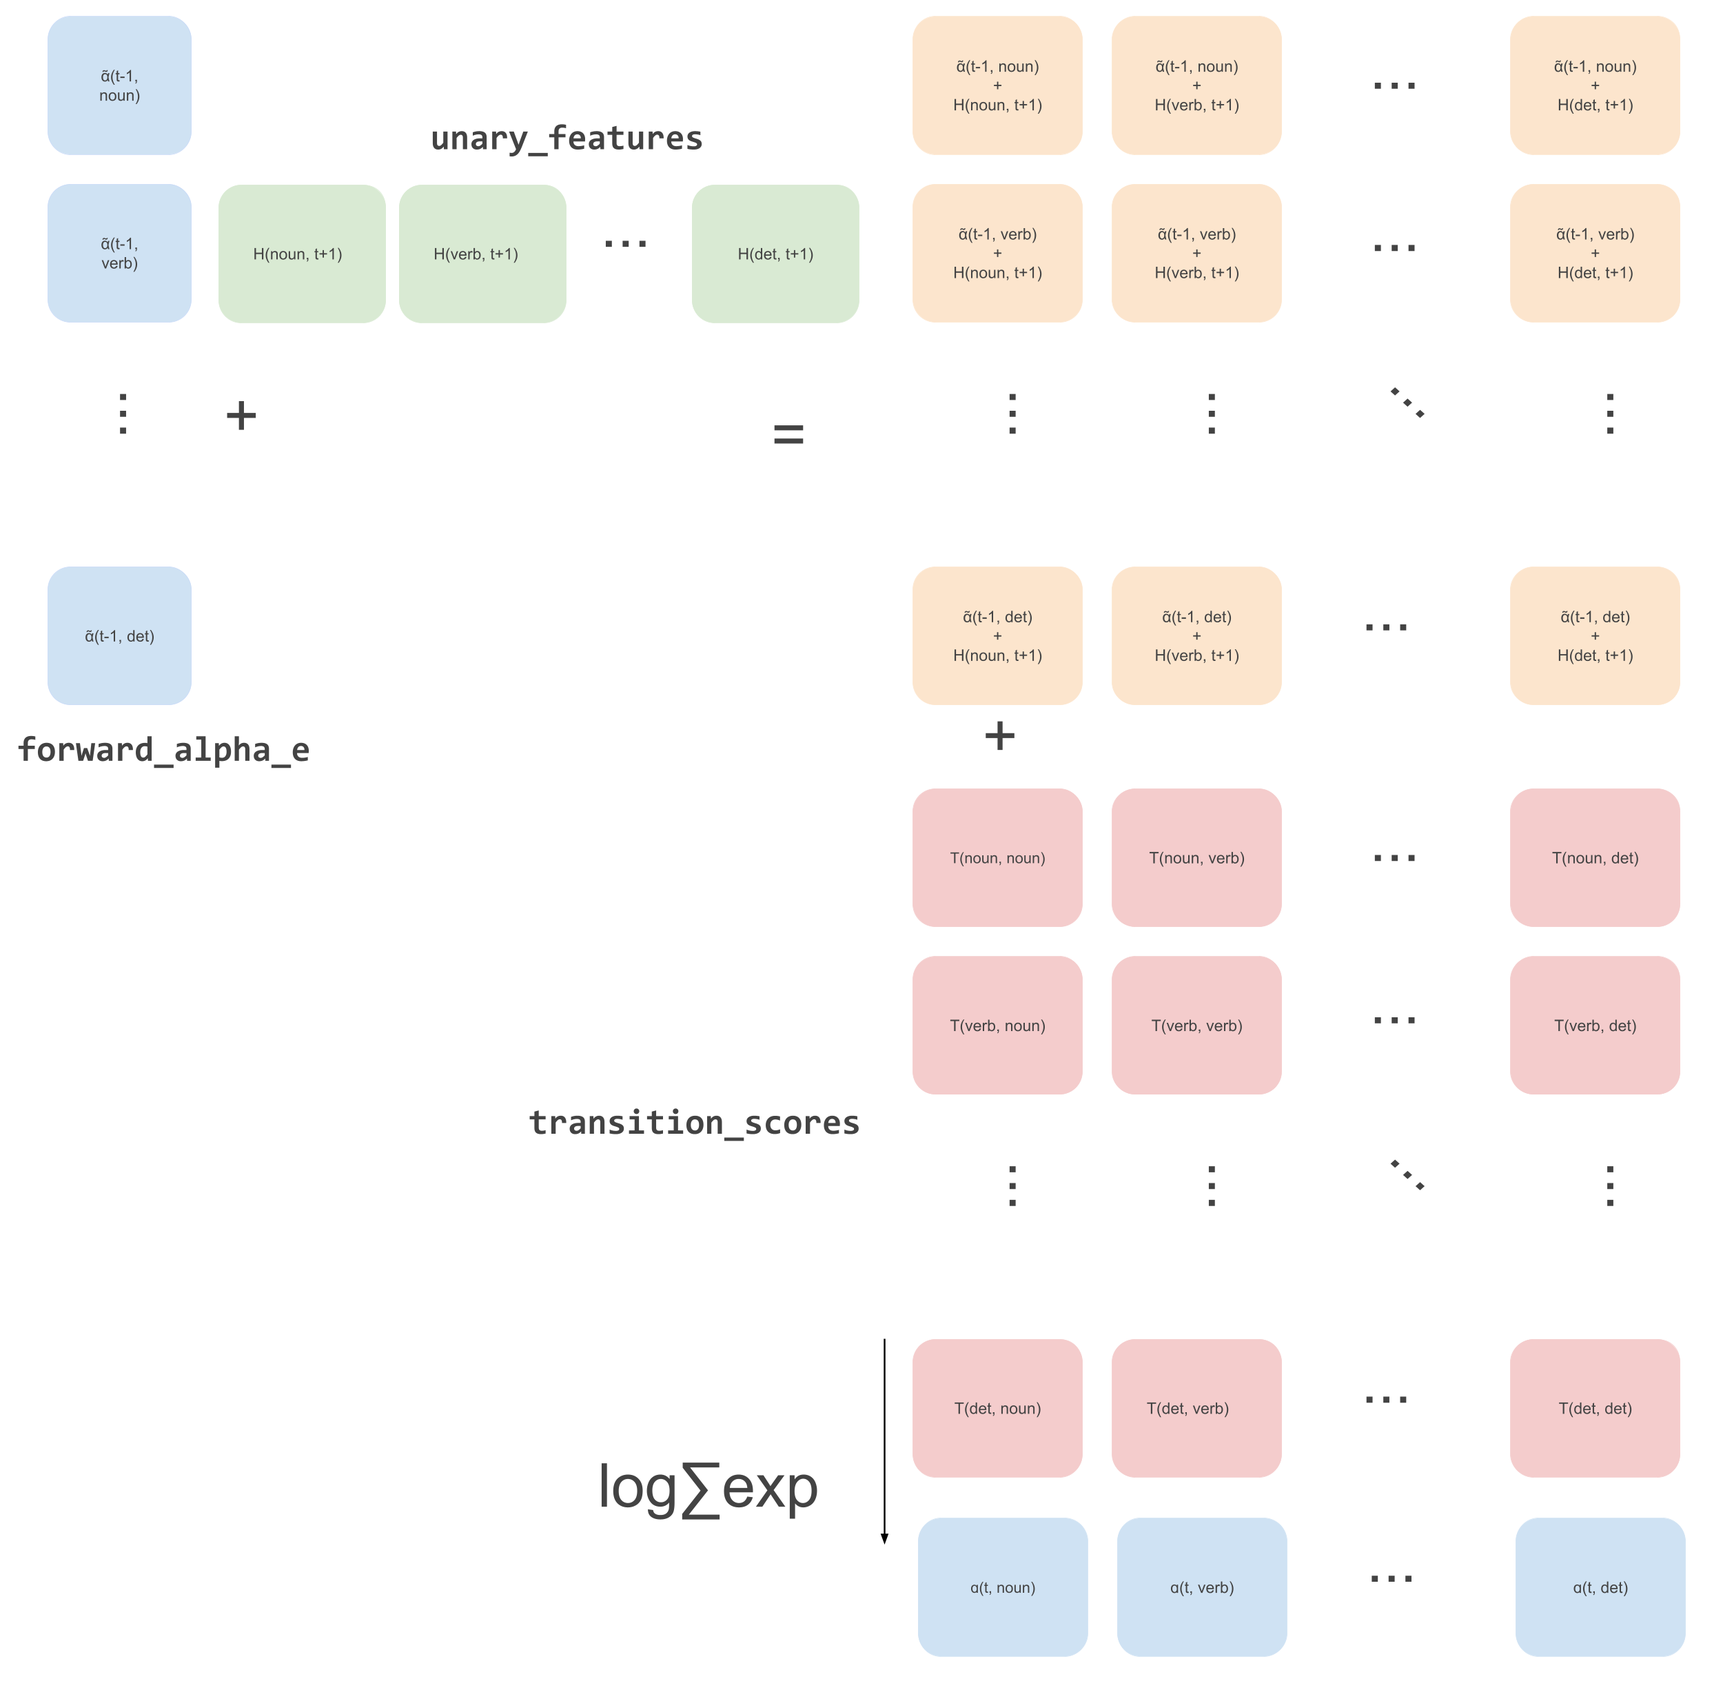
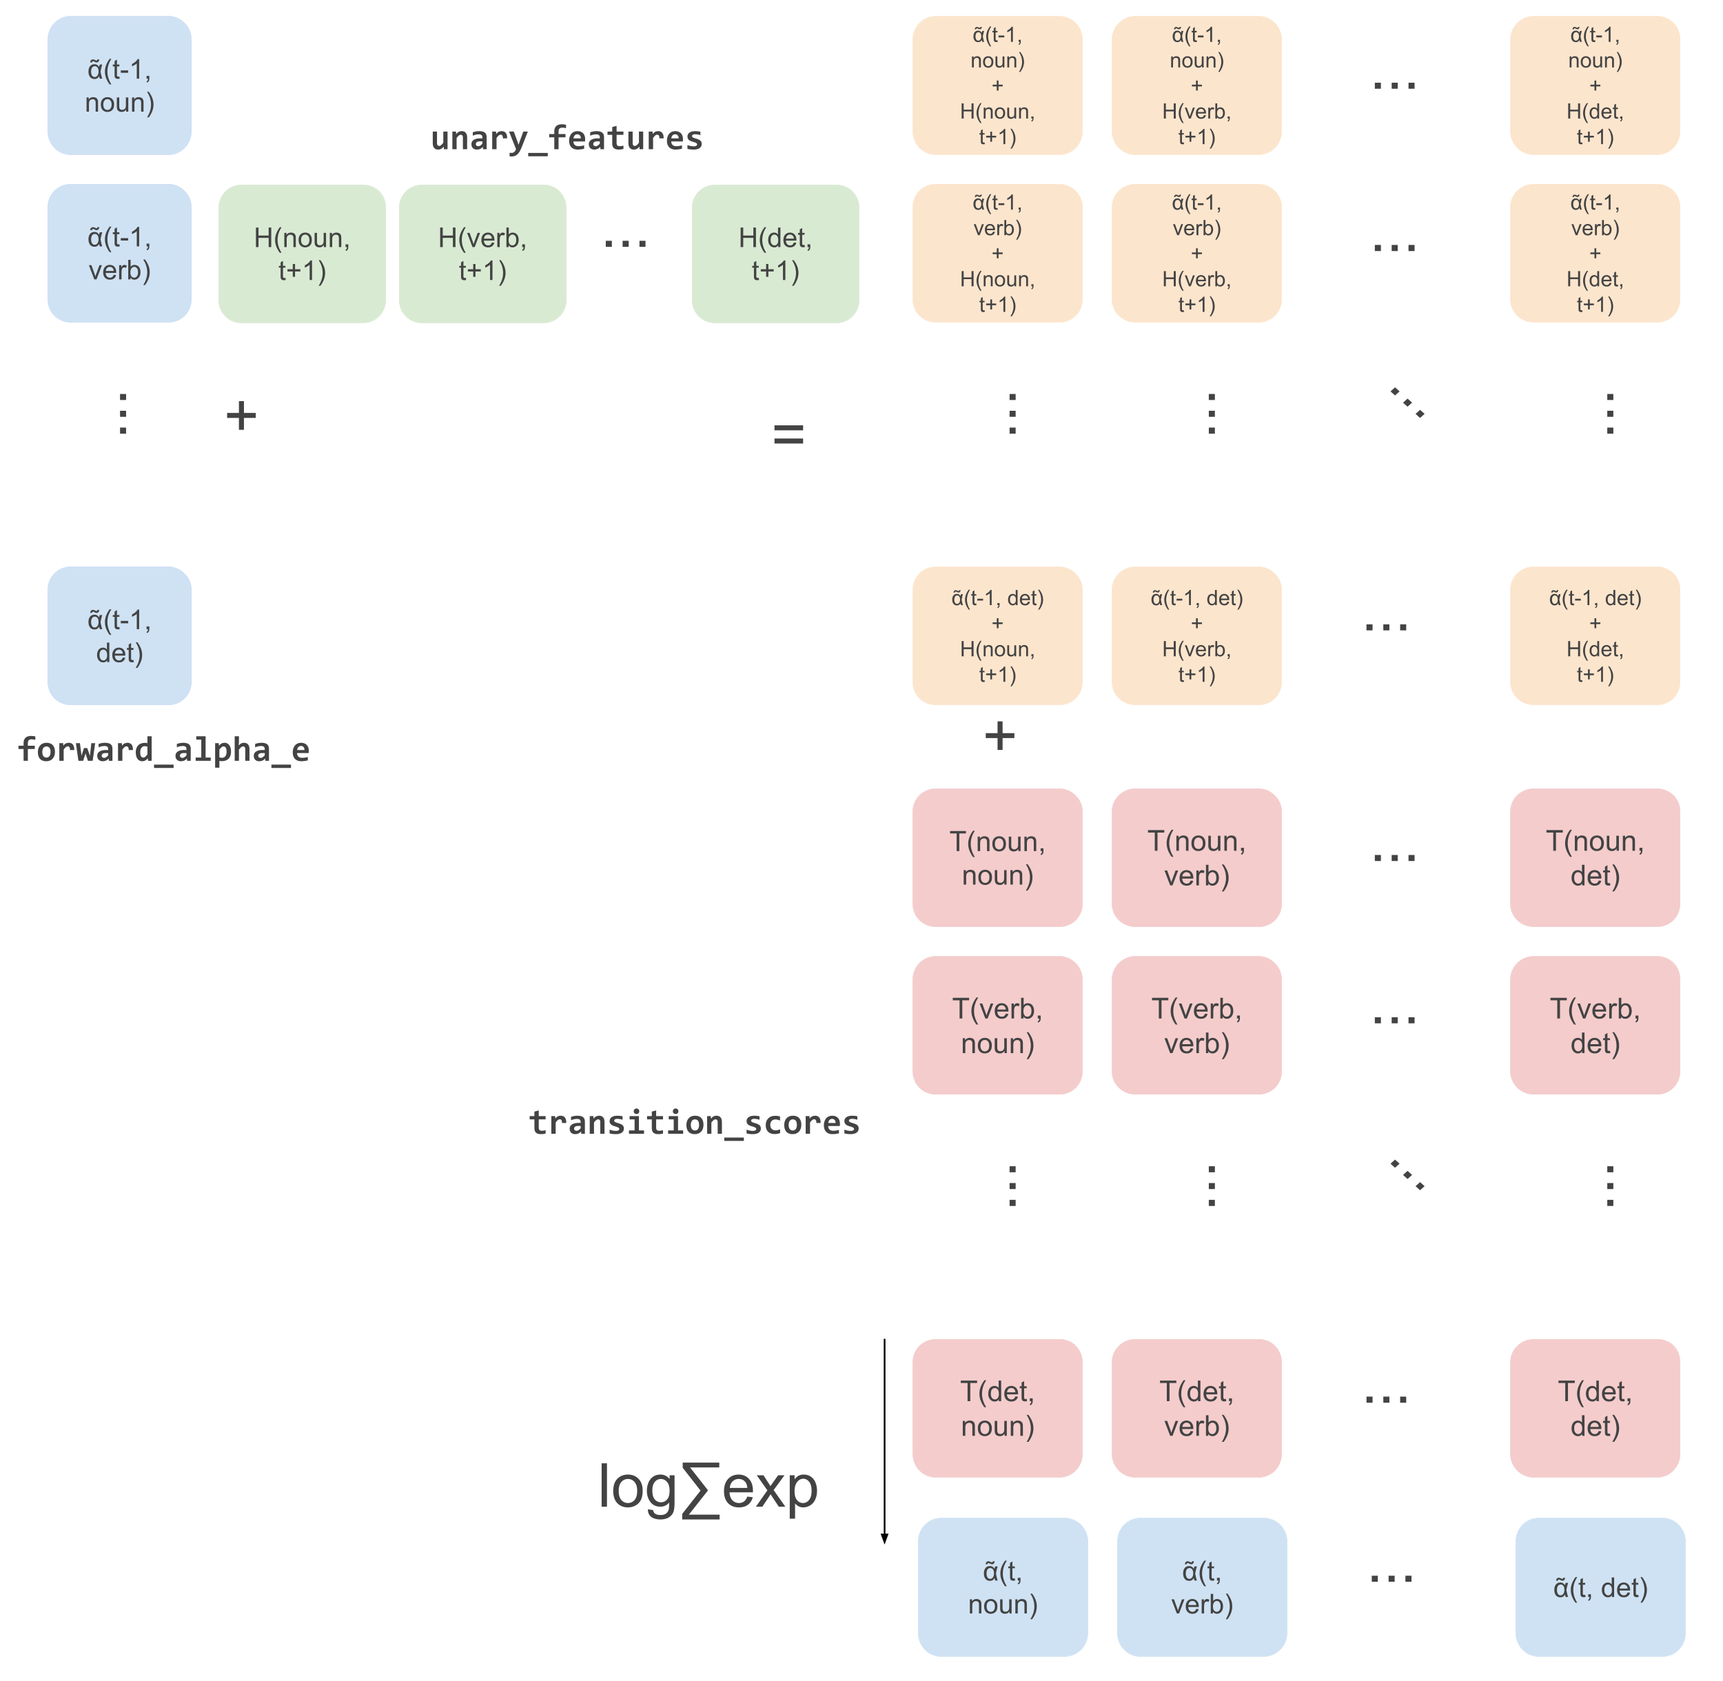
update

diff --git a/_site/2021/01/25/crfpt2.html b/_site/2021/01/25/crfpt2.html
@@ -67,7 +67,7 @@ if they’re clear, like batching and broadcasting. Let’s start!</p>
 
 <p>To learn a model that can annotate examples like the one above with POS tags, we need to extract proper
 features from the input sequence, which we will do with a bidirectional LSTM (motivated below). 
-Then what we’ll implement below is:</p>
+Then what we’ll implement in this post is:</p>
 
 <ul>
   <li>
@@ -94,7 +94,7 @@ the NLL of the entire dataset is:</p>
 <p>Instead of maximizing the log-likelihood of our data, we will minimize the negative log-likelihood, which is equivalent.
 We can use stochastic gradient descent (SGD) with automatic differentiation in <a href="https://pytorch.org/" target="_blank">PyTorch</a>, meaning we only need the forward-part of the BP algorithm.
 Recall that the forward recursion allows calculation of the partition function (\(Z(\mathbf{x})\)), which we need for the NLL. The backward recursion allows calculating the
-marginals (which are needed for the gradients). PyTorch takes care of the latter calculation for us.</p>
+marginals (which are needed for the gradients). PyTorch takes care of the latter calculation for us (<code class="language-plaintext highlighter-rouge">&lt;3</code> PyTorch).</p>
 
 <p>Let’s start with feature extraction and defining \(\boldsymbol{\theta}_1\), \(\boldsymbol{\theta}_2\), \(f(y_t, \mathbf{x}, t)\), and \(f(y_t, y_{t+1})\).</p>
 
@@ -205,7 +205,8 @@ that will be discussed in the section ‘sequence batching’ below.</p>
               <span class="n">target_sequence</span><span class="p">:</span> <span class="n">torch</span><span class="p">.</span><span class="n">Tensor</span><span class="p">,</span> 
               <span class="n">input_mask</span><span class="p">:</span> <span class="n">torch</span><span class="p">.</span><span class="n">Tensor</span><span class="p">,</span> <span class="n">input_lengths</span><span class="p">:</span> <span class="n">torch</span><span class="p">.</span><span class="n">Tensor</span><span class="p">):</span>
     <span class="s">"""
-    :param input_sequence: input sequence of size [batch_size, sequence_length]
+    :param input_sequence: input sequence of size 
+            [batch_size, sequence_length, input_vocabulary_size]
     :param target_sequence: POS tags target, [batch_size, sequence_length]
     :param input_mask: padding-mask, [batch_size, sequence_length]
     :param input_lengths: lengths of each example in the batch [batch_size]
@@ -231,7 +232,7 @@ that will be discussed in the section ‘sequence batching’ below.</p>
 <h2 id="implementing-a-linear-chain-crf"><span style="color:#C0392B">Implementing a Linear-Chain CRF</span></h2>
 
 <p>We want \(f(y_t, y_{t+1})\) to represent the likelihood of some tag \(y_{t+1}\) following \(y_t\) in the sequence, which
-can be interpreted as transition likelihood from one tag to another. The parameters \(\boldsymbol{\theta}_2\) are shared
+can be interpreted as transition likelihood from one tag to another. We assumed the parameters \(\boldsymbol{\theta}_2\) are shared
 over time (meaning they are the same for each \(t \in \{1, \dots, m-1\}\)), and thus we can simply define a matrix of transition ‘probabilities’ from each tag to another tag.
 We define \(\boldsymbol{\theta}_2f(y_t, y_{t+1}) = \mathbf{T}_{y_t,y_{t+1}}\), meaning the \(y_t\)-th row (recall that \(y_t\) is an index that represents a tag) and \(y_{t+1}\)-th column of a matrix \(\mathbf{T}\).
 This matrix \(\mathbf{T}\) will be of size \((|S| + 2) \times (|S| + 2)\). The 2 extra tags are the <code class="language-plaintext highlighter-rouge">&lt;ROOT&gt;</code> and the <code class="language-plaintext highlighter-rouge">&lt;EOS&gt;</code> tag.
@@ -245,7 +246,7 @@ first tag of a sequence, and the probability of a tag being the last tag. For th
     <p>The forward-pass of belief propagation (<code class="language-plaintext highlighter-rouge">ChainCRF.forward_belief_propagation(...)</code>), calculating the partition function (i.e., the denominator of \(p(\mathbf{y} \mid \mathbf{x})\)).</p>
   </li>
   <li>
-    <p>Calculating the nominator of \(p(\mathbf{y} \mid \mathbf{x})\) (<code class="language-plaintext highlighter-rouge">ChainCRF.score_sentence(...)</code>)</p>
+    <p>Calculating the log-nominator of \(p(\mathbf{y} \mid \mathbf{x})\) (<code class="language-plaintext highlighter-rouge">ChainCRF.score_sentence(...)</code>)</p>
   </li>
   <li>
     <p>Decoding to get the target sequence prediction (<code class="language-plaintext highlighter-rouge">ChainCRF.viterbi_decode(...)</code>)</p>
@@ -317,11 +318,11 @@ We do the same for any transition from <code class="language-plaintext highlight
         <span class="n">partition_function</span> <span class="o">=</span> <span class="bp">self</span><span class="p">.</span><span class="n">forward_belief_propagation</span><span class="p">(</span>
                                     <span class="n">input_features</span><span class="o">=</span><span class="n">input_features</span><span class="p">,</span> 
                                     <span class="n">input_mask</span><span class="o">=</span><span class="n">input_mask</span><span class="p">)</span>
-        <span class="n">nominator</span> <span class="o">=</span> <span class="bp">self</span><span class="p">.</span><span class="n">score_sentence</span><span class="p">(</span>
+        <span class="n">log_nominator</span> <span class="o">=</span> <span class="bp">self</span><span class="p">.</span><span class="n">score_sentence</span><span class="p">(</span>
                                     <span class="n">input_features</span><span class="o">=</span><span class="n">input_features</span><span class="p">,</span>
                                     <span class="n">target_tags</span><span class="o">=</span><span class="n">target_tags</span><span class="p">,</span> 
                                     <span class="n">input_mask</span><span class="o">=</span><span class="n">input_mask</span><span class="p">)</span>
-        <span class="k">return</span> <span class="n">partition_function</span> <span class="o">-</span> <span class="n">nominator</span>
+        <span class="k">return</span> <span class="n">partition_function</span> <span class="o">-</span> <span class="n">log_nominator</span>
 
       <span class="k">def</span> <span class="nf">forward</span><span class="p">(</span><span class="bp">self</span><span class="p">,</span> <span class="n">input_features</span><span class="p">:</span> <span class="n">torch</span><span class="p">.</span><span class="n">Tensor</span><span class="p">,</span> 
                   <span class="n">target_tags</span><span class="p">:</span> <span class="n">torch</span><span class="p">.</span><span class="n">Tensor</span><span class="p">,</span> 
@@ -338,6 +339,8 @@ We do the same for any transition from <code class="language-plaintext highlight
                 [batch_size, sequence_length]
         :param input_mask: the binary mask determining which of 
                 the input entries are padding [batch_size, sequence_length]
+        :param input_lengths: the sequence length of each example in the 
+                batch of size [batch_size]
         """</span>
         <span class="n">loss</span> <span class="o">=</span> <span class="bp">self</span><span class="p">.</span><span class="n">negative_log_likelihood</span><span class="p">(</span><span class="n">input_features</span><span class="o">=</span><span class="n">input_features</span><span class="p">,</span> 
                                             <span class="n">target_tags</span><span class="o">=</span><span class="n">target_tags</span><span class="p">,</span>
@@ -487,8 +490,10 @@ every part of the equations with the corresponding variable name their values ar
 \end{aligned}\]
 
 <p>We discussed above that \(\boldsymbol{\theta}_1f(y^{\prime}_{t+1}, \mathbf{x}, t+1) = \mathbf{H}_{t+1,y_{t+1}}\) is the t+1-th row and \(y_{t+1}\)-th column of the projected output of our encoder. These values are collected in a vector called <code class="language-plaintext highlighter-rouge">unary_features</code> for all \(y^{\prime}_{t+1}\) (meaning the vector has size \(|S|\)). In the above
- recursion, these values are the same for all \(y_t^{\prime}\) in the sum. Then \(\boldsymbol{\theta}_2f(y^{\prime}_t, y^{\prime}_{t+1}) = \mathbf{T}_{y_t,y_{t+1}}\)
-is the \(y_t\)-th row and \(y_{t+1}\)-th column of the matrix of transition probabilities. The vector <code class="language-plaintext highlighter-rouge">transition_scores</code> in the code holds the probabilities from all \(y_t\)’s to a particular \(y_{t+1}\).</p>
+ recursion, these values are the same for all \(y_t^{\prime}\) in the sum (meaning we can use broadcasting in the code!). Then \(\boldsymbol{\theta}_2f(y^{\prime}_t, y^{\prime}_{t+1}) = \mathbf{T}_{y_t,y_{t+1}}\)
+is the \(y_t\)-th row and \(y_{t+1}\)-th column of the matrix of transition probabilities. The vector <code class="language-plaintext highlighter-rouge">transition_scores</code> in the code holds the probabilities from all \(y_t\)’s to a particular \(y_{t+1}\). These are
+the same for each example in the batch, which again asks for broadcasting in the implementation (but I’ll explain that in detail
+below the code).</p>
 
 <p>Now let’s take a look at the code that implements all this. Below the code we’ll go through some clarifications.</p>
 
@@ -542,7 +547,7 @@ is the \(y_t\)-th row and \(y_{t+1}\)-th column of the matrix of transition prob
 
       <span class="c1"># Calculate next tag probabilities.
 </span>      <span class="n">forward_alpha_e</span> <span class="o">=</span> <span class="n">forward_alpha</span><span class="p">.</span><span class="n">unsqueeze</span><span class="p">(</span><span class="mi">2</span><span class="p">)</span>
-      <span class="n">next_forward_alpha</span> <span class="o">=</span> <span class="n">forward_alpha_e</span> <span class="o">+</span> <span class="n">unary_features</span> <span class="o">+</span> <span class="n">transition_scores</span>
+      <span class="n">next_forward_alpha</span> <span class="o">=</span> <span class="n">unary_features</span> <span class="o">+</span> <span class="n">transition_scores</span> <span class="o">+</span> <span class="n">forward_alpha_e</span>
 
       <span class="c1"># Calculate next forward alpha by taking logsumexp over current tag axis, 
 </span>      <span class="c1"># mask all instances that ended and keep the old forward alphas
@@ -562,7 +567,7 @@ is the \(y_t\)-th row and \(y_{t+1}\)-th column of the matrix of transition prob
 <p>The code recurses over the time dimension, from \(1\) to \(m\), and calculates the alphas in log-space.
 The first important line is the following:</p>
 
-<p><code class="language-plaintext highlighter-rouge">next_forward_alpha = forward_alpha_e + unary_features + transition_scores</code></p>
+<p><code class="language-plaintext highlighter-rouge">next_forward_alpha = unary_features + transition_scores + forward_alpha_e</code></p>
 
 <p>This line basically calculates the recursion above without the <em>logsumexp</em>-ing:</p>
 
@@ -577,6 +582,9 @@ The first important line is the following:</p>
 in these two lines of code for a single example in a batch graphically:</p>
 
 <p><img src="/images/broadcast_forward.png" alt="broadcast_forward" width="800" class="center" /></p>
+
+<p>The image above has \(\tilde{\alpha}\) which should be \(\hat{\alpha}\) actually but I can’t for the life of me
+figure out how to do that in Google drawings <code class="language-plaintext highlighter-rouge">:D</code>.</p>
 
 <p>Note that we add the transition from each tag to the final tag outside of the loop over time, because these are independent
 of time and should happen for every sequence in the batch. Then the whole function returns:</p>
@@ -597,12 +605,12 @@ or the function <code class="language-plaintext highlighter-rouge">ChainCRF.scor
 
 <h1 id="calculating-the-nominator"><span style="color:#C0392B">Calculating the Nominator</span></h1>
 
-<p>To finish calculating the loss, now that we calculated the partition function, we just need to calculate the (log-)nominator!</p>
+<p>To finish calculating the loss, we just need to calculate the (log-)nominator!</p>
 
-\[\sum_{t=1}^m \boldsymbol{\theta}_1 f(y_t^{(i)}, \mathbf{x}^{(i)}, t) + \sum_{t=1}^{m-1} \boldsymbol{\theta}_2 f(y_t^{(i)}, y_{t+1}^{(i)})\]
+\[\sum_{t=1}^m \underbrace{\boldsymbol{\theta}_1 f(y_t^{(i)}, \mathbf{x}^{(i)}, t)}_{\text{unary_features}} + \sum_{t=1}^{m-1} \underbrace{\boldsymbol{\theta}_2 f(y_t^{(i)}, y_{t+1}^{(i)})}_{\text{transition_scores}}\]
 
 <p>Which is simply a sum over time of the unary features and the transition probabilities for a given input sentence \(\mathbf{x}^{(i)}\)
-and target tag sequence \(\mathbf{y}^{(i)}\). In the implementation we loop over all the sequences in the batch,
+and target tag sequence \(\mathbf{y}^{(i)}\). In the implementation we loop over all the sequences in the batch in parallel,
 get the current tag for each example in the batch from the ground-truth sequence <code class="language-plaintext highlighter-rouge">target_tags</code>,
 and calculate the current unary scores and transition scores from the current time to the next.</p>
 
@@ -614,7 +622,8 @@ and calculate the current unary scores and transition scores from the current ti
         input features and sequences of target tags.
         :param input_features: the features for each input sequence
             [batch_size, sequence_length, num_tags] 
-        :param target_tags:
+        :param target_tags: tensor with the ground-truth target tags
+            of size [batch_size, sequence_length]
         :param input_mask: the binary mask determining which of the input 
             entries are padding [batch_size, sequence_length]
 

diff --git a/_site/2021/01/25/crfpt1.html b/_site/2021/01/25/crfpt1.html
@@ -3,9 +3,9 @@
   <meta charset="utf-8">
   <meta http-equiv="X-UA-Compatible" content="IE=edge">
   <meta name="viewport" content="width=device-width, initial-scale=1"><!-- Begin Jekyll SEO tag v2.7.1 -->
-<title>Structured Prediction part one - Linear-chain CRF | Ramblings</title>
+<title>Structured Prediction part one - Deriving a Linear-chain CRF | Ramblings</title>
 <meta name="generator" content="Jekyll v4.2.0" />
-<meta property="og:title" content="Structured Prediction part one - Linear-chain CRF" />
+<meta property="og:title" content="Structured Prediction part one - Deriving a Linear-chain CRF" />
 <meta property="og:locale" content="en_US" />
 <meta name="description" content="Blog about AI stuff." />
 <meta property="og:description" content="Blog about AI stuff." />
@@ -15,9 +15,9 @@
 <meta property="og:type" content="article" />
 <meta property="article:published_time" content="2021-01-25T00:00:00-05:00" />
 <meta name="twitter:card" content="summary" />
-<meta property="twitter:title" content="Structured Prediction part one - Linear-chain CRF" />
+<meta property="twitter:title" content="Structured Prediction part one - Deriving a Linear-chain CRF" />
 <script type="application/ld+json">
-{"headline":"Structured Prediction part one - Linear-chain CRF","dateModified":"2021-01-25T00:00:00-05:00","datePublished":"2021-01-25T00:00:00-05:00","url":"/2021/01/25/crfpt1.html","mainEntityOfPage":{"@type":"WebPage","@id":"/2021/01/25/crfpt1.html"},"description":"Blog about AI stuff.","@type":"BlogPosting","@context":"https://schema.org"}</script>
+{"headline":"Structured Prediction part one - Deriving a Linear-chain CRF","dateModified":"2021-01-25T00:00:00-05:00","datePublished":"2021-01-25T00:00:00-05:00","url":"/2021/01/25/crfpt1.html","mainEntityOfPage":{"@type":"WebPage","@id":"/2021/01/25/crfpt1.html"},"description":"Blog about AI stuff.","@type":"BlogPosting","@context":"https://schema.org"}</script>
 <!-- End Jekyll SEO tag -->
 <link rel="stylesheet" href="/assets/main.css"><link type="application/atom+xml" rel="alternate" href="/feed.xml" title="Ramblings" /></head>
 <body><header class="site-header" role="banner">
@@ -40,7 +40,7 @@
         <article class="post h-entry" itemscope itemtype="http://schema.org/BlogPosting">
 
   <header class="post-header">
-    <h1 class="post-title p-name" itemprop="name headline">Structured Prediction part one - Linear-chain CRF</h1>
+    <h1 class="post-title p-name" itemprop="name headline">Structured Prediction part one - Deriving a Linear-chain CRF</h1>
     <p class="post-meta">
       <time class="dt-published" datetime="2021-01-25T00:00:00-05:00" itemprop="datePublished">Jan 25, 2021
       </time></p>

diff --git a/_site/index.html b/_site/index.html
@@ -50,7 +50,7 @@
         </h3></li><li><span class="post-meta">Jan 25, 2021</span>
         <h3>
           <a class="post-link" href="/2021/01/25/crfpt1.html">
-            Structured Prediction part one - Linear-chain CRF
+            Structured Prediction part one - Deriving a Linear-chain CRF
           </a>
         </h3></li></ul>
 
